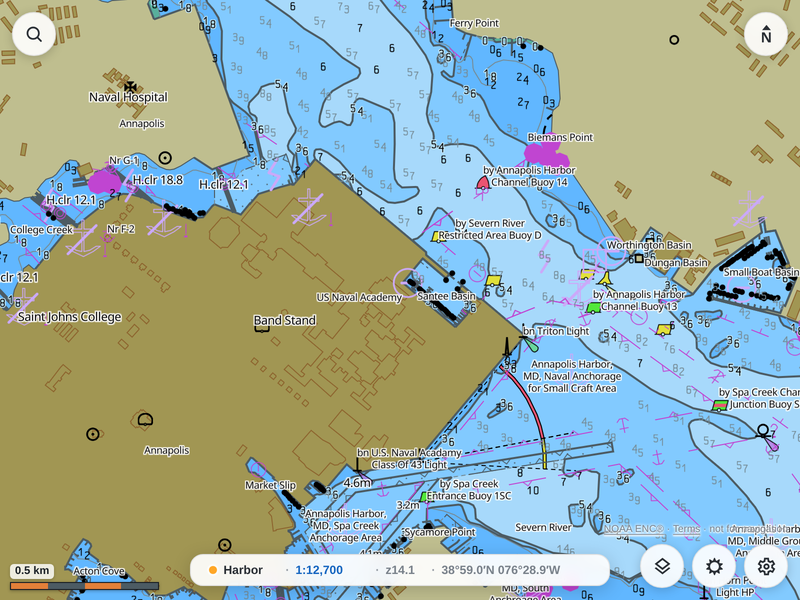
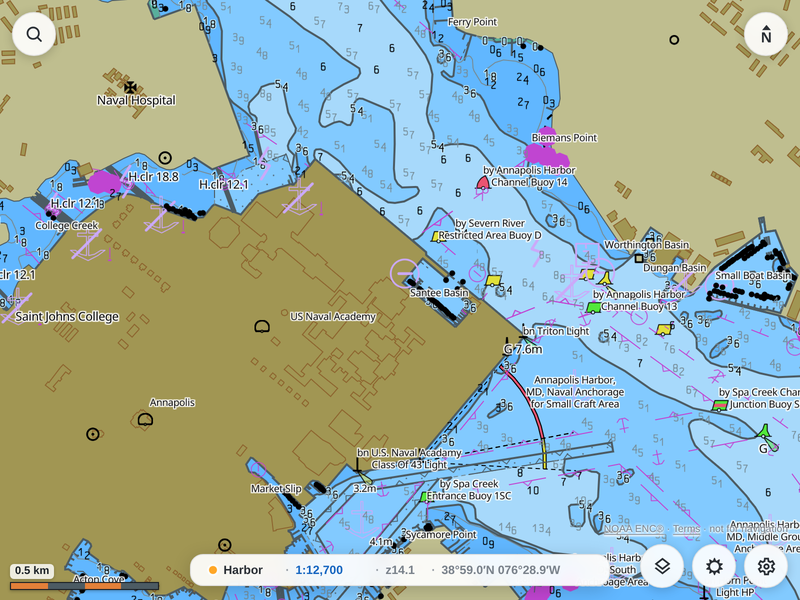
fix(portrayal): anchor area symbols inside the polygon (point on surface)
Area features anchored their symbol/label at the plain average of the boundary
vertices, which isn't guaranteed to be inside a concave polygon — so an anchorage
area's anchor symbol could land outside the water polygon, on land. Replace it
with a proper point-on-surface: the area-weighted centroid when it falls inside,
else the midpoint of the widest interior span of a horizontal scan line through
it. Wired into both textAnchor (symbol/label anchor) and representativePoint.

Re-baked + re-captured the Annapolis screenshot from the fixed engine; anchorage
anchors now sit in their water polygons. (The dome symbol on the academy grounds
is a landmark, correctly on land.)

diff --git a/internal/engine/portrayal/build.go b/internal/engine/portrayal/build.go
@@ -3,6 +3,7 @@ package portrayal
 import (
 	"fmt"
 	"math"
+	"sort"
 	"strconv"
 	"strings"
 
@@ -170,16 +171,86 @@ func textAnchor(g geom) (geo.LatLon, bool) {
 		if len(g.area) == 0 || len(g.area[0]) == 0 {
 			return geo.LatLon{}, false
 		}
-		var sumLat, sumLon float64
-		for _, p := range g.area[0] {
-			sumLat += p.Lat
-			sumLon += p.Lon
-		}
-		n := float64(len(g.area[0]))
-		return geo.LatLon{Lat: sumLat / n, Lon: sumLon / n}, true
+		return areaSurfacePoint(g.area[0])
 	default:
 		return geo.LatLon{}, false
 	}
+}
+
+// areaSurfacePoint returns a point guaranteed to lie inside the polygon ring (a
+// "point on surface"): the area-weighted centroid when that falls inside, else the
+// midpoint of the widest interior span of a horizontal scan line through the
+// centroid's latitude. This keeps an area's symbol/label off land for concave
+// shapes — e.g. an anchorage anchor symbol that the plain vertex average would
+// push outside the water. Falls back to the vertex average for degenerate rings.
+func areaSurfacePoint(ring []geo.LatLon) (geo.LatLon, bool) {
+	if len(ring) == 0 {
+		return geo.LatLon{}, false
+	}
+	var sumLat, sumLon float64
+	for _, p := range ring {
+		sumLat += p.Lat
+		sumLon += p.Lon
+	}
+	mean := geo.LatLon{Lat: sumLat / float64(len(ring)), Lon: sumLon / float64(len(ring))}
+
+	// Area-weighted centroid (shoelace), x=lon, y=lat.
+	var a2, cx, cy float64
+	for i := range ring {
+		j := (i + 1) % len(ring)
+		x0, y0 := ring[i].Lon, ring[i].Lat
+		x1, y1 := ring[j].Lon, ring[j].Lat
+		cross := x0*y1 - x1*y0
+		a2 += cross
+		cx += (x0 + x1) * cross
+		cy += (y0 + y1) * cross
+	}
+	centroid := mean
+	if a2 != 0 {
+		centroid = geo.LatLon{Lat: cy / (3 * a2), Lon: cx / (3 * a2)}
+	}
+	if pointInRing(centroid, ring) {
+		return centroid, true
+	}
+
+	// Concave shape: the centroid is outside. Scan horizontally at the centroid's
+	// latitude, collect where the boundary crosses it, and return the midpoint of
+	// the widest interior interval (which is inside the polygon by construction).
+	y := centroid.Lat
+	var xs []float64
+	for i := range ring {
+		j := (i + 1) % len(ring)
+		y0, y1 := ring[i].Lat, ring[j].Lat
+		if (y0 <= y) != (y1 <= y) {
+			t := (y - y0) / (y1 - y0)
+			xs = append(xs, ring[i].Lon+t*(ring[j].Lon-ring[i].Lon))
+		}
+	}
+	sort.Float64s(xs)
+	bestMid, bestW, found := 0.0, -1.0, false
+	for i := 0; i+1 < len(xs); i += 2 {
+		if w := xs[i+1] - xs[i]; w > bestW {
+			bestW, bestMid, found = w, (xs[i]+xs[i+1])/2, true
+		}
+	}
+	if found {
+		return geo.LatLon{Lat: y, Lon: bestMid}, true
+	}
+	return mean, true
+}
+
+// pointInRing reports whether p is inside the polygon ring (ray casting).
+func pointInRing(p geo.LatLon, ring []geo.LatLon) bool {
+	in := false
+	for i, j := 0, len(ring)-1; i < len(ring); j, i = i, i+1 {
+		yi, yj := ring[i].Lat, ring[j].Lat
+		xi, xj := ring[i].Lon, ring[j].Lon
+		if (yi > p.Lat) != (yj > p.Lat) &&
+			p.Lon < (xj-xi)*(p.Lat-yi)/(yj-yi)+xi {
+			in = !in
+		}
+	}
+	return in
 }
 
 // geometryCode maps an s57 geometry type to the S-52 LUPT geometry code.
@@ -504,14 +575,14 @@ func representativePoint(f *s57.Feature) (geo.LatLon, bool) {
 		}
 	case s57.GeometryTypePolygon:
 		ring := exteriorRing(g)
-		var sx, sy, n float64
+		pts := make([]geo.LatLon, 0, len(ring))
 		for _, c := range ring {
 			if len(c) >= 2 {
-				sx, sy, n = sx+c[0], sy+c[1], n+1
+				pts = append(pts, geo.LatLon{Lat: c[1], Lon: c[0]})
 			}
 		}
-		if n > 0 {
-			return geo.LatLon{Lat: sy / n, Lon: sx / n}, true
+		if len(pts) > 0 {
+			return areaSurfacePoint(pts)
 		}
 	}
 	// Point geometry, or a fallback for any geometry whose first coordinate is set.

diff --git a/internal/engine/portrayal/anchor_test.go b/internal/engine/portrayal/anchor_test.go
@@ -1,0 +1,49 @@
+package portrayal
+
+import (
+	"testing"
+
+	"github.com/beetlebugorg/chartplotter/pkg/geo"
+)
+
+// An L-shaped (concave) polygon: the plain vertex average / area centroid lands in
+// the missing corner — outside the polygon. areaSurfacePoint must return a point
+// that is actually inside.
+func TestAreaSurfacePointConcave(t *testing.T) {
+	// L-shape occupying the region minus the top-right quadrant.
+	ring := []geo.LatLon{
+		{Lat: 0, Lon: 0},
+		{Lat: 0, Lon: 10},
+		{Lat: 5, Lon: 10},
+		{Lat: 5, Lon: 5},
+		{Lat: 10, Lon: 5},
+		{Lat: 10, Lon: 0},
+	}
+	p, ok := areaSurfacePoint(ring)
+	if !ok {
+		t.Fatal("areaSurfacePoint returned ok=false")
+	}
+	if !pointInRing(p, ring) {
+		t.Fatalf("anchor %+v is outside the polygon", p)
+	}
+
+	// Sanity: the naive vertex average IS outside this shape (the bug we fixed).
+	var sLat, sLon float64
+	for _, v := range ring {
+		sLat += v.Lat
+		sLon += v.Lon
+	}
+	mean := geo.LatLon{Lat: sLat / float64(len(ring)), Lon: sLon / float64(len(ring))}
+	if pointInRing(mean, ring) {
+		t.Skip("vertex average happens to be inside; concavity assumption changed")
+	}
+}
+
+// For a convex polygon the centroid is inside, so it should be returned as-is.
+func TestAreaSurfacePointConvex(t *testing.T) {
+	ring := []geo.LatLon{{Lat: 0, Lon: 0}, {Lat: 0, Lon: 4}, {Lat: 4, Lon: 4}, {Lat: 4, Lon: 0}}
+	p, ok := areaSurfacePoint(ring)
+	if !ok || !pointInRing(p, ring) {
+		t.Fatalf("convex anchor %+v ok=%v not inside", p, ok)
+	}
+}